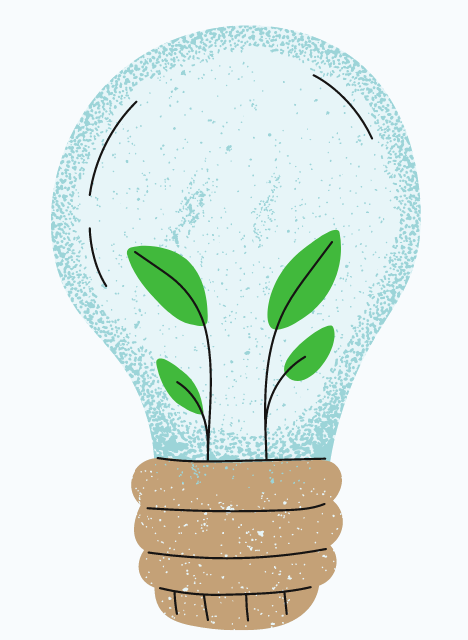
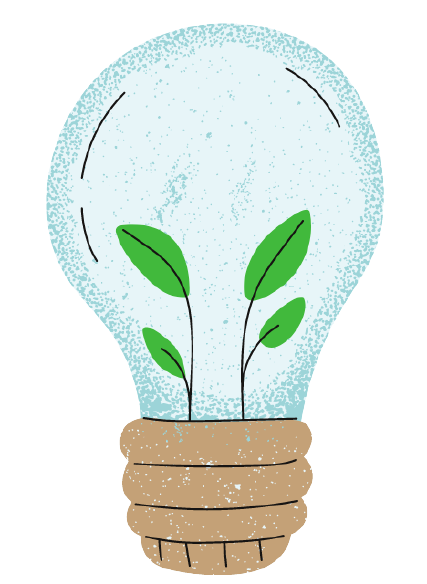
Added render comments on blog details page and adjusted template

diff --git a/blog/templates/blog/blog_details.html b/blog/templates/blog/blog_details.html
@@ -5,42 +5,45 @@
 {% block content %}
 
 
-<div class="container-fluid blog-wrapper">
+<div class="container-fluid bg-leaves">
 
 
-    <div class="row align-items-center mt-5 justify-content-center px-3">
+    <div class="row mt-5 px-3 justify-content-center align-items-center">
 
-        <div class="col-12 col-lg-6 my-5 site-form">
+        <div class="col-12 col-lg-5 my-5 site-form px-3">
 
             <h3 class="mb-3">{{ blogpost.title }}</h3>
 
 
             <p>{{ blogpost.content }}
             </p>
-<hr>
+            <hr>
 
-<h5>Comments:</h5>
-{% if comments != 'None_None' %} <p>{{ blogpost.comments }} </p>
-{% else %} <p>This blog post has no comments yet.</p>{% endif %}
-<hr>
-    
-                <h5 class="blog-comment-header">Comment on blogpost</h5>
-                {% if user.is_authenticated %}
-                <form method="POST" action="">
-                    {{ comment_form | crispy }}
-                    {% csrf_token %}
-                   
-                  
-                  
-                    <input type="submit" class="rounded-pill mx-2 submit-btn py-1 px-3" value="Add comment">
-                    <input type="hidden" name="redirect_url" value="{{ request.path }}">
-                </form>
-                {% else %}
-                <p>You have to be signed in to leave a comment. </p><br>
-                 <p>  <a href="{% url 'account_login' %} ">Sign in here</a> or
-                    <a href="{% url 'account_signup' %} ">Sign up for an account here!</a>
-                </p>
-                {% endif %}
+            <h5>Comments:</h5>
+            {% if blogpost.comments %} 
+            {% for comment in comments %}
+            <p>{{ comment.content }} </p>
+            {% endfor %}
+            {% else %} <p>This blog post has no comments yet.</p>
+            {% endif %}
+            <hr>
+
+            <h5 class="blog-comment-header">Comment on blogpost</h5>
+            {% if user.is_authenticated %}
+            <form method="POST" class="mx-auto">
+                {{ comment_form | crispy }}
+                {% csrf_token %}
+
+                <input type="submit" class="rounded-pill mx-2 submit-btn py-1 px-3" value="Add comment">
+                <input type="hidden" name="redirect_url" value="{{ request.path }}">
+                <p>* = required field</p>
+            </form>
+            {% else %}
+            <p>You have to be signed in to leave a comment. </p><br>
+            <p> <a href="{% url 'account_login' %} ">Sign in here</a> or
+                <a href="{% url 'account_signup' %} ">Sign up for an account here!</a>
+            </p>
+            {% endif %}
 
 
 
@@ -48,8 +51,8 @@
 
 
         </div>
-        <div class="col-12 col-lg-3 ">
-            <img class="toy-details-bgimg mt-5 ms-lg-5" src="{{ MEDIA_URL }}bulb.png"
+        <div class="col d-none d-lg-block col-lg-5">
+            <img class="ms-5 mt-5 w-50" src="{{ MEDIA_URL }}bulb.png"
                 alt="Lightbulb with small plants growing inside it. The bulb's base is a reed basket">
         </div>
     </div>

diff --git a/home/templates/home/index.html b/home/templates/home/index.html
@@ -25,6 +25,7 @@
 
     <div class="row pb-5 align-items-center">
 
+    <!-- Showing three toys that have campaign prices -->
         <div class="col-12 col-lg-2 ">
             <h4>Campaign</h4>
         </div>
@@ -51,6 +52,7 @@
 
     </div>
 
+    <!-- Showing the three highest rated toys -->
 
     <div class="row align-items-center pb-5">
         <div class="col-12 col-lg-2">
@@ -76,7 +78,7 @@
 
     </div>
 
-
+<!-- Showing the three last added blogposts -->
     <div class="row pb-5 align-items-center">
         <div class="col-12 col-lg-2">
             <h4>Blog</h4>

diff --git a/blog/views.py b/blog/views.py
@@ -17,12 +17,17 @@ def blog(request):
     blogposts = BlogPost.objects.all()
     query = None
 
+    # Handling the functionality of searching for a blogpost,
+    # if the user has made a search request
     if 'query' in request.GET:
         query = request.GET['query']
+
+        # Handling if user clicks search button without
+        # entering search criteria
         if not query:
             messages.error(request, "No search qriteria entered")
             return redirect(reverse('blogposts'))
-
+        # Taking in the search criteria and filtering by them
         queries = Q(
                 title__icontains=query) | Q(content__icontains=query)
         blogposts = blogposts.filter(queries)
@@ -40,11 +45,14 @@ def blog_details(request, blogpost_id):
     A view to show blogpost details with content text, and add comments to them
     """
     blogpost = get_object_or_404(BlogPost, pk=blogpost_id)
-    comments = BlogComment.objects.all()
+    comments = blogpost.comments.all().order_by('-posted_date')
     new_comment = None
-    comment_form = BlogCommentForm(data=request.POST)
+    comment_form = BlogCommentForm()
 
+    # Code handling posting a comment, or rendering an error message if
+    # the attempted post does not succeed
     if request.method == 'POST':
+        comment_form = BlogCommentForm(data=request.POST)
         if comment_form.is_valid():
             # Creating new comment object, not saving yet
             new_comment = comment_form.save(commit=False)
@@ -52,6 +60,8 @@ def blog_details(request, blogpost_id):
             new_comment.blogpost = blogpost
             new_comment.save()
             messages.success(request, 'Your comment has been added!')
+            # Rendering an empty comment form after comment is posted
+            comment_form = BlogCommentForm()
         else:
             comment_form = BlogCommentForm()
             messages.error(request, 'Something went wrong, your comment\
@@ -72,11 +82,15 @@ def add_blogpost(request):
     """
     A view to add a blogpost
     """
+    # Stopping a user from accessing this functionality if
+    # they are not logged in with superuser credentials
     if not request.user.is_superuser:
         messages.error(
             request, 'This functionality is only available to store owners')
         return redirect(reverse('home'))
 
+    # Handling functionality of add a blogpost to the db, or returning an
+    # error message if add blogpost did not succeed
     if request.method == 'POST':
         form = BlogpostForm(request.POST)
         if form.is_valid():
@@ -87,6 +101,7 @@ def add_blogpost(request):
             messages.error(
                 request, 'Sorry, something went wrong. \
                     The blogpost was not added to the store')
+    # Rendering an empty add blog form
     else:
         form = BlogpostForm()
 
@@ -103,12 +118,17 @@ def edit_blogpost(request, blogpost_id):
     """
     A view to edit a blogpost
     """
+    # Stopping a user from accessing this functionality if
+    # they are not logged in with superuser credentials
     if not request.user.is_superuser:
         messages.error(
             request, 'This functionality is only available to store owners')
         return redirect(reverse('home'))
 
     blogpost = get_object_or_404(BlogPost, pk=blogpost_id)
+
+    # Handling functionality of edit a blogpost to the db, or returning an
+    # error message if edit blogpost did not succeed
     if request.method == 'POST':
         form = BlogpostForm(request.POST, request.FILES)
         if form.is_valid():
@@ -119,6 +139,8 @@ def edit_blogpost(request, blogpost_id):
             messages.error(
                 request, 'Sorry, something went wrong. \
                     The blogpost was not updated.')
+
+    # Rendering an edit form for the specific blogpost
     else:
         form = BlogpostForm(instance=blogpost)
         messages.info(request, 'You are editing {blogpost.title}')
@@ -137,11 +159,14 @@ def confirm_delete_blogpost(request, blogpost_id):
     """
     A view for rendering a template where deletion is confirmed or cancelled
     """
+    # Stopping a user from accessing this functionality if
+    # they are not logged in with superuser credentials
     if not request.user.is_superuser:
         messages.error(
             request, 'This functionality is only available to store owners')
         return redirect(reverse('home'))
 
+    # Getting the specific blogpost from the db
     blogpost = get_object_or_404(BlogPost, pk=blogpost_id)
     context = {
         'blogpost': blogpost,
@@ -157,11 +182,14 @@ def delete_blogpost(request, blogpost_id):
     """
     Delete a blogpost
     """
+    # Stopping a user from accessing this functionality if
+    # they are not logged in with superuser credentials
     if not request.user.is_superuser:
         messages.error(
             request, 'This functionality is only available to store owners')
         return redirect(reverse('home'))
 
+    # Getting the specific blogpost and deleting it from the db
     blogpost = get_object_or_404(BlogPost, pk=blogpost_id)
     blogpost.delete()
     messages.success(request, 'Blogpost successfully deleted.')

diff --git a/home/views.py b/home/views.py
@@ -9,14 +9,11 @@ def index(request):
     toys = Toy.objects.order_by('-rating')[:3]
     has_campaigns = Toy.objects.filter(campaign=True)[:3]
     blogposts = BlogPost.objects.all().order_by('-posted_date')[:3]
-   # if blogposts.comments:
-    #    blogcomments = blogposts.comments.all()
 
     context = {
         'toys': toys,
         'has_campaigns': has_campaigns,
         'blogposts': blogposts,
-     #   'blogcomments': blogcomments
     }
 
     return render(request, 'home/index.html', context)
